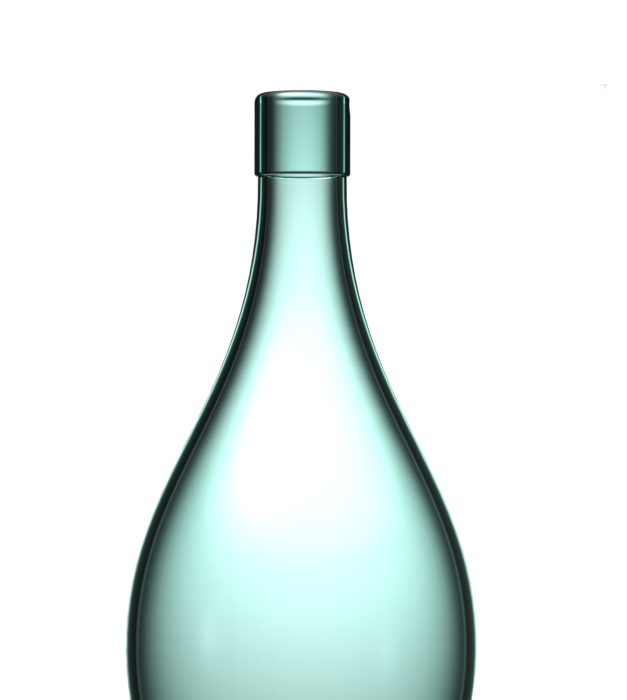
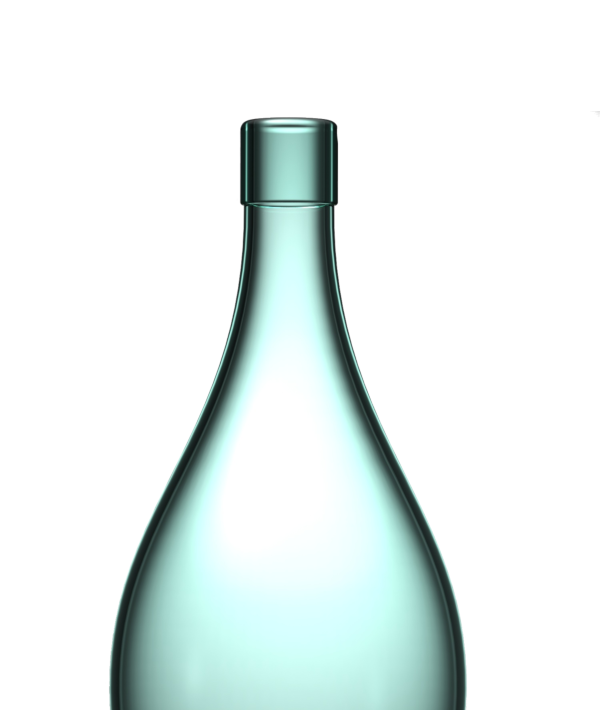
updates to html and css

Changed region(s): [[0.24, 0.12, 0.78, 1.0], [0.18, 0.75, 0.33, 1.0]]

diff --git a/main.css b/main.css
@@ -3,7 +3,7 @@
 }
 
 body {
-  background-color:black;
+  background-color:white;
   margin: 0;
   padding: 0;
 }
@@ -25,10 +25,8 @@ h3 {
 /* Header */
 
 .logo {
-  height: 75px;
+  height: 100px;
   position: absolute;
-  margin-left: 25px;
-  margin-top: 25px;
 }
 @media only screen and (max-width: 600px) {
 .logo {
@@ -124,21 +122,27 @@ h3 {
   }
 }
 
+/* Banner Text */
+
 .index-banner h1 {
   color: white;
   font-family: Staatliches;
-  font-size: 64px;
-  text-shadow: 2px 2px 2px #372C34;
+  font-size: 100px;
   text-align: right;
-  margin-right: 10%;
+  margin: 5% 10% 0 0;
+}
+
+@media only screen and (max-width: 700px) {
+  .index-banner h1 {
+    font-size: 50px;
+  }
 }
 
 .index-banner h2 {
   font-family: Open Sans;
   font-size: 20px;
   text-align: right;
-  margin-right: 10%;
-  margin-left: 50%;
+  margin: 0 10% 1% 50%;
   line-height: 1.75em;
   
 }
@@ -157,7 +161,7 @@ h3 {
   }
 }
 
-@media only screen and (max-width: 938px) {
+@media only screen and (max-width: 1117px) {
   .index-banner h2 {
     margin-right: 10%;
     margin-left: 20%;
@@ -169,8 +173,11 @@ a.banner-shop {
   margin-right: 10%;
 }
 
+/* Banner Image */
+
 .bottle {
   float: left;
+  margin-left: 10%;
 }
 
 @-webkit-keyframes fadeIn { from { opacity:0; opacity: 1\9; /* IE9 only */ } to { opacity:1; } }
@@ -196,7 +203,7 @@ a.banner-shop {
   animation-delay: 0.7s;
 }
 
-@media only screen and (max-width: 938px) {
+@media only screen and (max-width: 1117px) {
   .bottle {
     display: none;
   }
@@ -252,6 +259,12 @@ a.banner-shop {
   margin: 0 0 0 5%;
 }
 
+@media only screen and (max-width: 860px) {
+  .content-box, .content-boxrev {
+  margin: 0;
+}
+}
+
 .content-title + .content-text {
   padding: 0 30px 0 0px;
 }
@@ -290,7 +303,7 @@ a.link-buttons:hover, a:active {
   transition: .5s;
 }
 
-/* Bio */
+/* Our Story Section */
 
 .footer-divider {
   width: auto;
@@ -374,10 +387,18 @@ footer ul {
   text-align: center;
 }
 
+.footer-about {
+  line-height: 1.75em;
+}
+
+.footer a {
+  color: white;
+}
+
 /* Form */
 
 input[type=email] {
-  width: 100%;
+
   border-radius: 4px;
   border: 1px solid #ccc;
   padding: 12px 20px;
@@ -394,8 +415,4 @@ input[type=submit] {
   border: none;
   border-radius: 4px;
   cursor: pointer;
-}
-
-.footer-about {
-  line-height: 1.75em;
 }

diff --git a/index.html b/index.html
@@ -26,8 +26,8 @@
             <section class="index-banner">
                 <div class="vertical-left">
                     <img src="images/bottle-crop.png" class="bottle fade-in">
-                    <h1 class="fade-in">Company Name</h1>
-                    <h2 class="fade-in">Lorem ipsum dolor sit amet, consectetuer adipiscing elit. Aenean commodo ligula eget dolor. Aenean massa. Cum sociis natoque penatibus et magnis dis parturient montes, nascetur ridiculus mus. Donec quam felis, ultricies nec, pellentesque eu, pretium quis, sem. </h2>
+                    <h1 class="fade-in company-heading">Bombucha</h1>
+                    <h2 class="fade-in company-info">Lorem ipsum dolor sit amet, consectetuer adipiscing elit. Aenean commodo ligula eget dolor. Aenean massa. Cum sociis natoque penatibus et magnis dis parturient montes, nascetur ridiculus mus. </h2>
                     <a href="shop.html" class="link-buttons banner-shop fade-in">Shop</a>
                 </div>
             </section>
